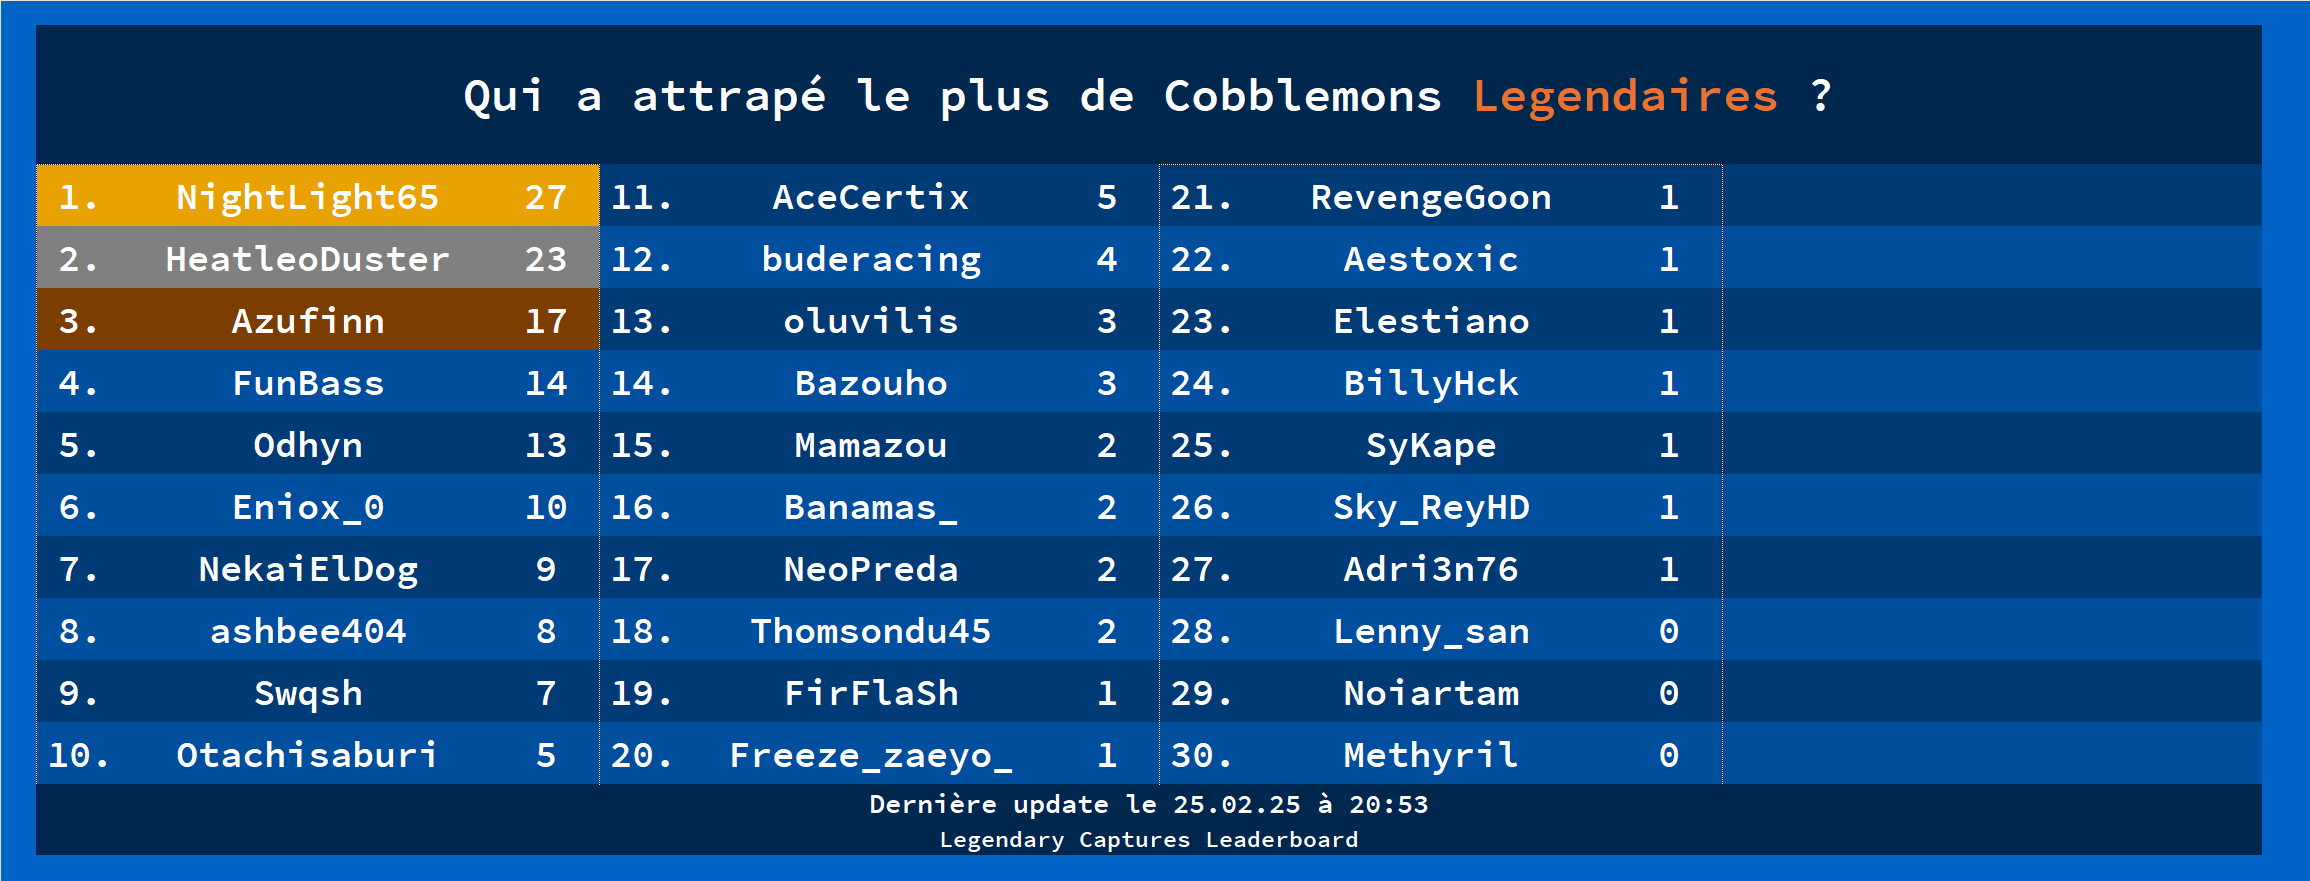
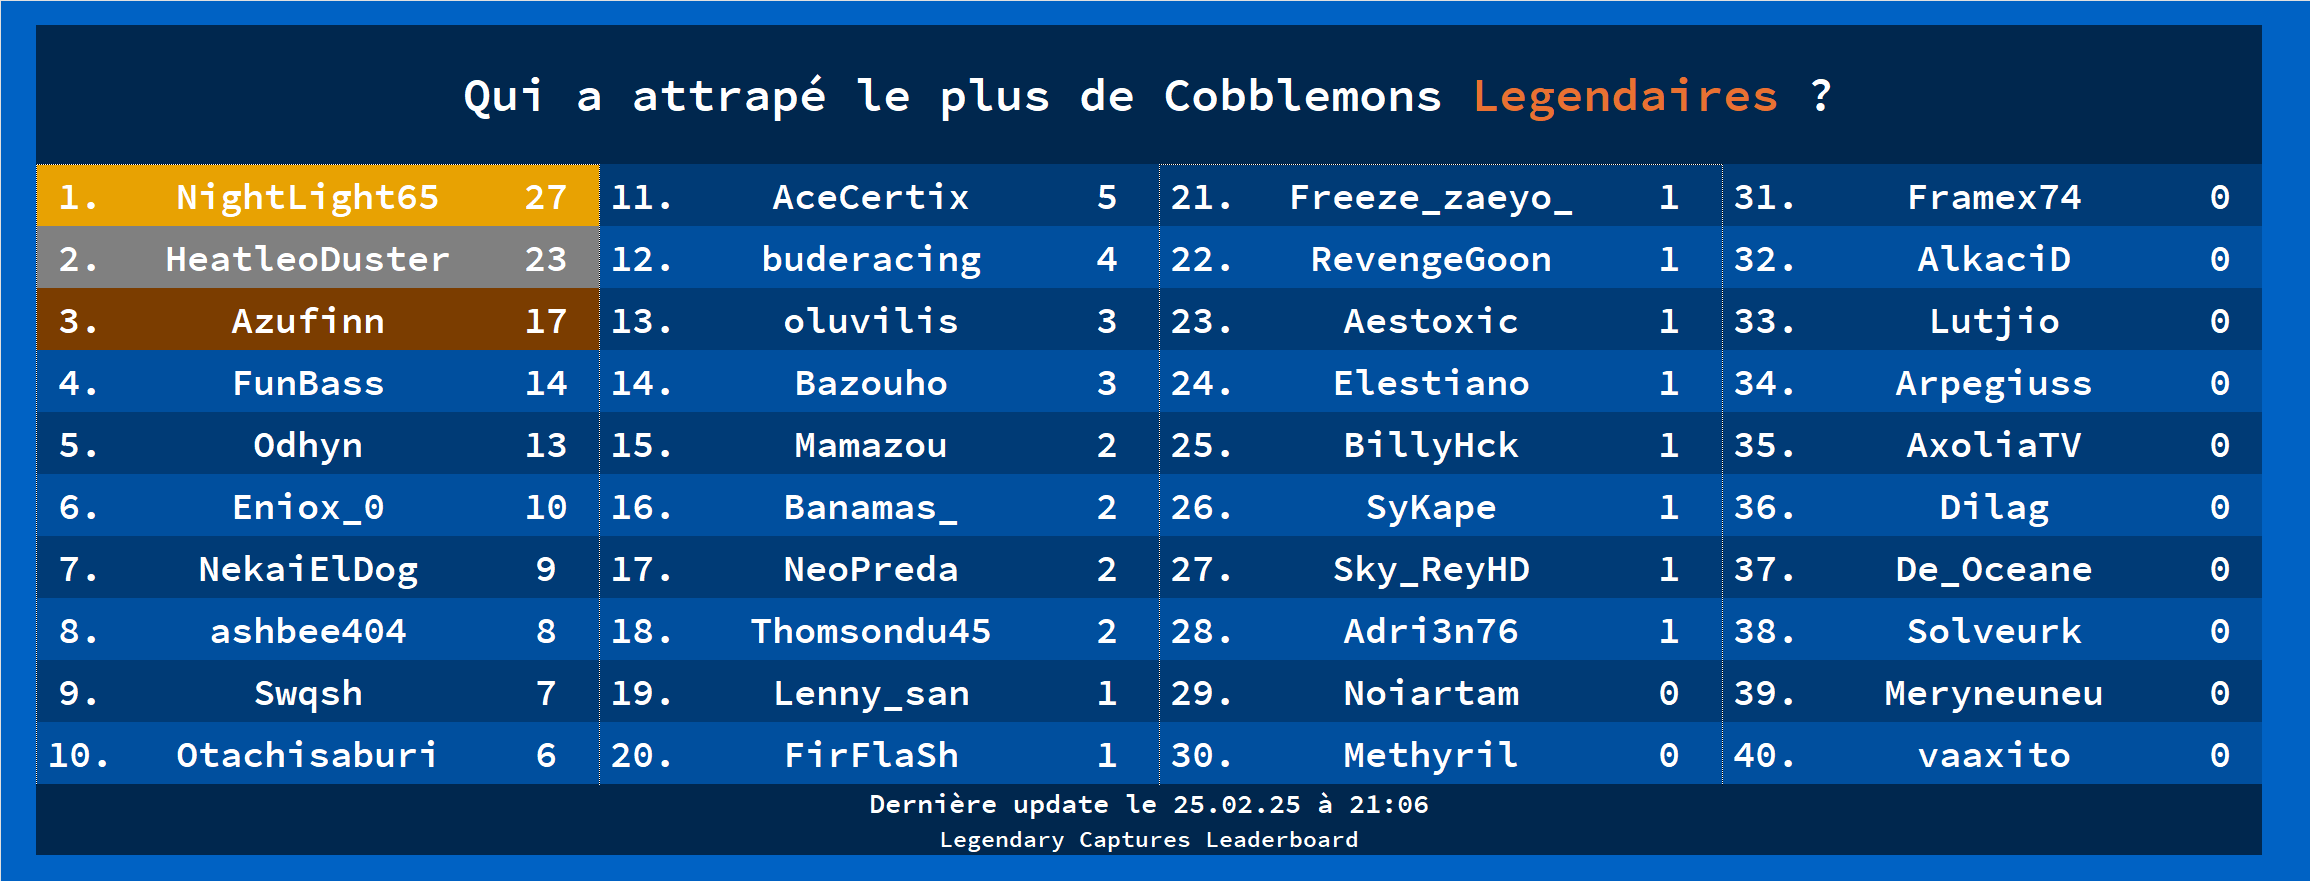
update

diff --git a/scoreboard.js b/scoreboard.js
@@ -242,7 +242,7 @@ const CONFIG = {
       enable: true,
       sheetName: "leaderboard2",
       excelRows: 10,
-      excelColumns: 3,
+      excelColumns: 4,
       subtitle: "Most Pokemons Captured",
       ignoreNames: "", // comma-separated list of names to ignore (if any)
     },
@@ -250,7 +250,7 @@ const CONFIG = {
       enable: true,
       sheetName: "leaderboard3",
       excelRows: 10,
-      excelColumns: 3,
+      excelColumns: 4,
       subtitle: "Shiny Pokemons Leaderboard",
       ignoreNames: "", // comma-separated list of names to ignore (if any)
     },
@@ -258,7 +258,7 @@ const CONFIG = {
       enable: true,
       sheetName: "leaderboard4",
       excelRows: 10,
-      excelColumns: 3,
+      excelColumns: 4,
       subtitle: "Legendary Captures Leaderboard",
       ignoreNames: "", // comma-separated list of names to ignore (if any)
     },
